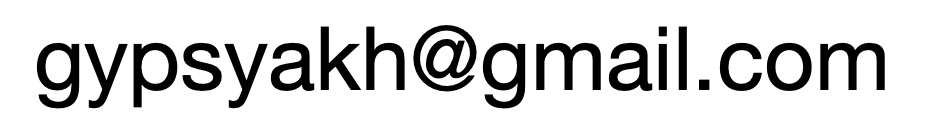
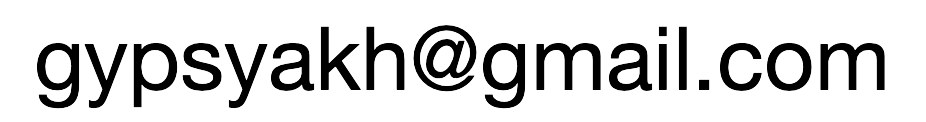
styles

diff --git a/styles.css b/styles.css
@@ -3,5 +3,5 @@ body {
     background-color: rgb(238, 207, 120);
 }
 img {
-    border: 3px solid #ff7f62;
+    border: 3px solid black;
 }
